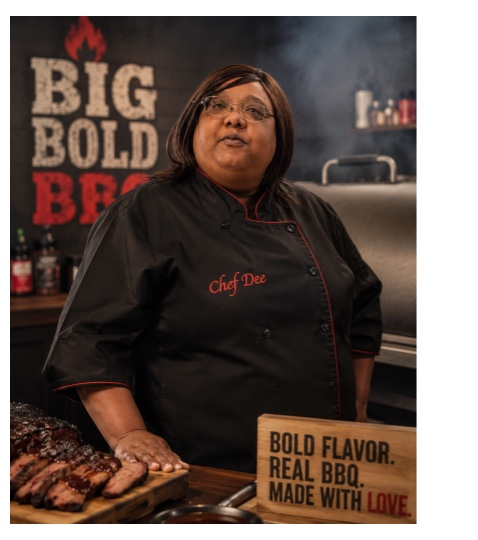
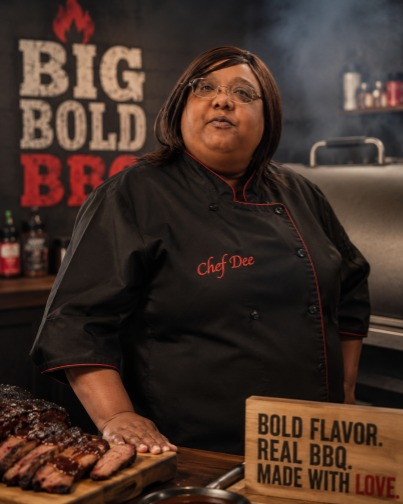
fix(photo): re-crop Chef Dee photo tight — remove baked-in white margins
The deck export left white margins inside the JPG itself (16px top/bottom,
10px left, 61px right, pure-white corners) — that was the "white box" the
client saw, not a CSS frame. Re-cropped from the original 960×540 export to
the content bbox (403×504), zero white margin. Updated next/image dimensions
in MeetChefDee + About to match the new aspect ratio.

diff --git a/app/(marketing)/about/page.tsx b/app/(marketing)/about/page.tsx
@@ -103,8 +103,8 @@ export default function AboutPage() {
                 <Image
                   src="/photos/chef-dee.jpg"
                   alt="Chef Dee in her Big Bold BBQ kitchen, beside fresh-smoked brisket and ribs"
-                  width={478}
-                  height={540}
+                  width={403}
+                  height={504}
                   sizes="(max-width: 1024px) 100vw, 360px"
                   className="w-full h-auto rounded-xl shadow-lg shadow-hickory/15"
                 />

diff --git a/components/home/MeetChefDee.tsx b/components/home/MeetChefDee.tsx
@@ -30,8 +30,8 @@ export function MeetChefDee() {
               <Image
                 src="/photos/chef-dee.jpg"
                 alt="Chef Dee in her Big Bold BBQ kitchen, beside fresh-smoked brisket and ribs"
-                width={478}
-                height={540}
+                width={403}
+                height={504}
                 sizes="(max-width: 768px) 100vw, 440px"
                 className="w-full h-auto rounded-xl shadow-lg shadow-hickory/15"
                 priority={false}
